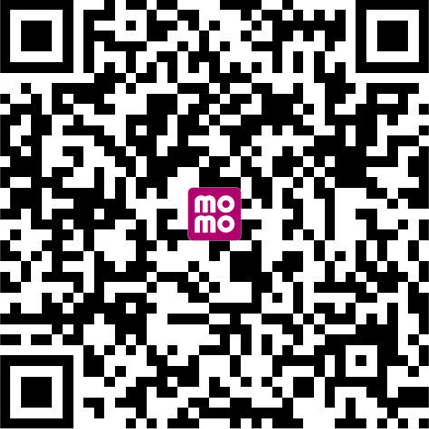
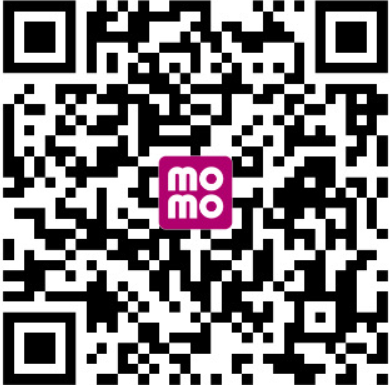
up

diff --git a/src/page/Profile.js b/src/page/Profile.js
@@ -27,7 +27,7 @@ export default function ProfileSettingScreen({}) {
   const [maintenanceModalVisible, setMaintenanceModalVisible] = useState(false);
   const [modalVisible, setModalVisible] = useState(false);
   const handleMomo = () => {
-    const url = "https://me.momo.vn/qr/nguyen-van-toan-IwfnwPi8o4/JSxbSmx5d1";
+    const url = "https://me.momo.vn/lDI6TWsAijsQt8TNi3IqUx";
     Linking.openURL(url).catch((err) => console.error("Không thể mở URL", err));
   };
   const [show, setShow] = useState(false);
@@ -239,7 +239,7 @@ export default function ProfileSettingScreen({}) {
         transparent
         visible={modalVisible}
         onRequestClose={() => {
-          Alert.alert("Modal has been closed.");
+          // Alert.alert("Modal has been closed.");
           setModalVisible(!modalVisible);
         }}
       >

diff --git a/src/page/payment/checkout.js b/src/page/payment/checkout.js
@@ -40,7 +40,7 @@ export default function CheckOut({ navigation }) {
     getStoredUserId();
   }, []);
   const handleMomo = () => {
-    const url = "https://me.momo.vn/lDI6TWsAijsQt8TNi3IqUx/YQdJ8XgkP4l2aOG";
+    const url = "https://me.momo.vn/lDI6TWsAijsQt8TNi3IqUx";
     Linking.openURL(url).catch((err) => console.error("Không thể mở URL", err));
   };
   const handleAccept = () => {
@@ -58,7 +58,7 @@ export default function CheckOut({ navigation }) {
         transparent
         visible={modalVisible}
         onRequestClose={() => {
-          Alert.alert("Modal has been closed.");
+          // Alert.alert("Modal has been closed.");
           setModalVisible(!modalVisible);
         }}
       >

diff --git a/src/page/notification/Notification.js b/src/page/notification/Notification.js
@@ -60,17 +60,14 @@ export const Notification = ({ navigation }) => {
       const tmp = new Date();
       const checkDate = new Date(tmp);
       checkDate.setDate(tmp.getDate() - 1);
-      if (currentDate <= checkDate) {
-        Alert.alert("Warning", "Please select a future date");
-        toggleDatepicker();
-      } else {
+    
         setDate(currentDate);
         if (Platform.OS === "android") {
           toggleDatepicker();
           setBookDate(currentDate.toDateString());
         }
         toggleDatepicker();
-      }
+     
     } else if (type === "dismissed") {
       toggleDatepicker();
     }

diff --git a/src/page/SignUp.js b/src/page/SignUp.js
@@ -256,7 +256,7 @@ export default function SingUpScreen({ navigation }) {
           style={{ textAlign: "center" }}
 
         >
-          Don’t have account? <Text style={{ color: 'blue' }} onPress={() => navigation.navigate("Login")}>Log in</Text>
+          have account? <Text style={{ color: 'blue' }} onPress={() => navigation.navigate("Login")}>Log in</Text>
         </Text>
       </ScrollView>
     </View>

diff --git a/App.js b/App.js
@@ -35,7 +35,7 @@ const Tab = createBottomTabNavigator();
 const App = () => {
   return (
     <NavigationContainer>
-      <Stack.Navigator initialRouteName="Survey">
+      <Stack.Navigator initialRouteName="Homes">
         <Stack.Screen
           name="ImagePickerExample"
           options={{ headerLeft: null, headerShown: false }}
